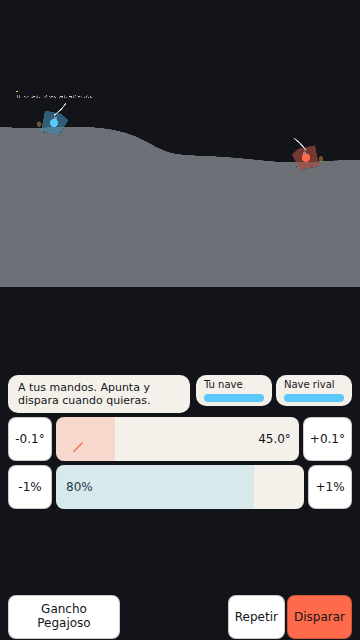
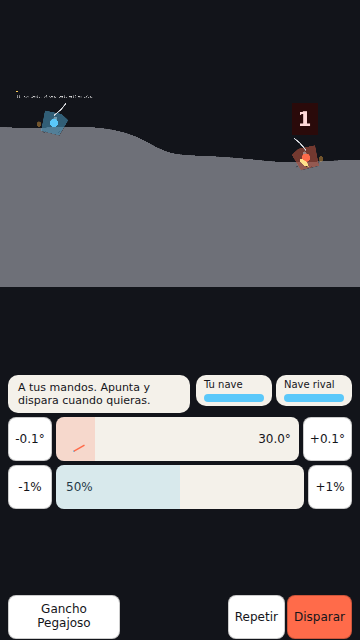
fix(arma-mina-adherente): corrige el factor de escala invertido del contador y refuerza min-2
ContadorAdherencia.ts usaba 1/displayScale.x en vez de displayScale.x, así
que en vez de agrandar la fuente para compensar el FIT la encogía: a 360x640
el contador de la mina se dibujaba a ~0,75px CSS, invisible. El gatekeeper
midió el bug con su propia sonda y señaló también que min-2.e2e.ts solo
comprobaba el dato publicado en window.__debug, nunca el tamaño ni la
posición visible en pantalla, y que lo hacía sobre un tiro cuyo punto de
adherencia caía fuera del mundo.

min-2.e2e.ts ahora dispara a un ángulo/potencia que se pega dentro del
mundo visible y decodifica la captura real con el paquete "canvas" (ya
dependencia del repo) para medir en píxeles de pantalla el bloque de fondo
del contador -- comprobado en ambos sentidos: falla con el bug reintroducido
(0 píxeles encontrados) y pasa con el arreglo (32px de alto).

diff --git a/tests/e2e/min-2.e2e.ts b/tests/e2e/min-2.e2e.ts
@@ -1,6 +1,66 @@
 import { test, expect } from "@playwright/test";
+import { createCanvas, loadImage } from "canvas";
 import { ANGULO_MAXIMO_GRADOS, ANGULO_MINIMO_GRADOS, POTENCIA_MAXIMA, POTENCIA_MINIMA } from "@/juego/control/apuntado";
+import { MUNDO_ALTO, MUNDO_ANCHO } from "@/juego/constantes";
 import { arrastrarBarraHasta } from "./utilesControl";
+
+// min-2 (hallazgo del gatekeeper): el guardia anterior solo comprobaba el
+// DATO publicado en window.__debug, nunca lo que de verdad se pintaba en el
+// lienzo -- así coló un contador comprimido a ~0,75px CSS (el bug de
+// ContadorAdherencia.ts que invertía displayScale.x). Esta comprobación
+// decodifica el PNG real de la captura con el paquete "canvas" (ya
+// dependencia del repo, nunca del lado del navegador: no toca el guardia
+// terreno-6/comprobar-sin-lectura-canvas.mjs, que solo vigila src/juego y
+// src/sim) y mide en PÍXELES DE PANTALLA el bloque de color de fondo del
+// contador (#2a0a0a) alrededor de su punto de ancla, para que un contador
+// invisible o microscópico vuelva a hacer fallar el test aunque el dato
+// publicado sea correcto.
+const FONDO_CONTADOR_RGB = { r: 0x2a, g: 0x0a, b: 0x0a };
+const TOLERANCIA_COLOR = 40;
+const ALTO_MINIMO_LEGIBLE_CSS_PX = 12;
+
+async function medirBloqueDeFondo(
+  buffer: Buffer,
+  ventana: { left: number; top: number; right: number; bottom: number },
+): Promise<{ ancho: number; alto: number; muestras: number }> {
+  const imagen = await loadImage(buffer);
+  const lienzo = createCanvas(imagen.width, imagen.height);
+  const contexto = lienzo.getContext("2d");
+  contexto.drawImage(imagen, 0, 0);
+
+  const left = Math.max(0, Math.floor(ventana.left));
+  const top = Math.max(0, Math.floor(ventana.top));
+  const right = Math.min(imagen.width, Math.ceil(ventana.right));
+  const bottom = Math.min(imagen.height, Math.ceil(ventana.bottom));
+  const { data } = contexto.getImageData(left, top, right - left, bottom - top);
+
+  let minX = Infinity;
+  let minY = Infinity;
+  let maxX = -Infinity;
+  let maxY = -Infinity;
+  let muestras = 0;
+  const ancho = right - left;
+  for (let y = 0; y < bottom - top; y++) {
+    for (let x = 0; x < ancho; x++) {
+      const i = (y * ancho + x) * 4;
+      const r = data[i];
+      const g = data[i + 1];
+      const b = data[i + 2];
+      const distancia = Math.abs(r - FONDO_CONTADOR_RGB.r) + Math.abs(g - FONDO_CONTADOR_RGB.g) + Math.abs(b - FONDO_CONTADOR_RGB.b);
+      if (distancia <= TOLERANCIA_COLOR) {
+        muestras++;
+        minX = Math.min(minX, x);
+        maxX = Math.max(maxX, x);
+        minY = Math.min(minY, y);
+        maxY = Math.max(maxY, y);
+      }
+    }
+  }
+  if (muestras === 0) {
+    return { ancho: 0, alto: 0, muestras: 0 };
+  }
+  return { ancho: maxX - minX + 1, alto: maxY - minY + 1, muestras };
+}
 
 // min-2 (camino crítico): a diferencia de gra-2 (panel DOM position:fixed),
 // el contador de la mina es un GameObject DENTRO del lienzo de Phaser
@@ -48,8 +108,14 @@ test("min-2: el contador de la mina está anclado al punto de adherencia, es dis
   // que se fuerza una mecha corta y determinista tras la adherencia.
   await page.evaluate(() => window.__debug.forzarFusibleAdherenciaPasos!(100));
 
-  const anguloObjetivo = 45;
-  const potenciaObjetivo = 80;
+  // min-2 (hallazgo del gatekeeper): el ángulo/potencia anteriores (45/80)
+  // resolvían un punto de adherencia en (1928,96, -277,54), FUERA del mundo
+  // de 1920x1080 -- ahí no habría nada visible aunque el tamaño fuese
+  // correcto. Este disparo se pega cerca de la nave rival (1632, 414),
+  // dentro del mundo y por tanto del lienzo, comprobado con la sonda
+  // dedicada antes de fijar los valores.
+  const anguloObjetivo = 30;
+  const potenciaObjetivo = 50;
   const fraccionAngulo = (anguloObjetivo - ANGULO_MINIMO_GRADOS) / (ANGULO_MAXIMO_GRADOS - ANGULO_MINIMO_GRADOS);
   const fraccionPotencia = (potenciaObjetivo - POTENCIA_MINIMA) / (POTENCIA_MAXIMA - POTENCIA_MINIMA);
   await arrastrarBarraHasta(page, "barra-angulo", fraccionAngulo);
@@ -131,8 +197,29 @@ test("min-2: el contador de la mina está anclado al punto de adherencia, es dis
       expect(Math.abs(instante.contador.x - impactoResuelto.x)).toBeLessThanOrEqual(2);
       expect(Math.abs(instante.contador.y - impactoResuelto.y)).toBeLessThanOrEqual(2);
       if (!capturada) {
-        await page.screenshot({ path: "capturas/arma-mina-adherente-18-cuenta-atras.png" });
+        const buffer = await page.screenshot({ path: "capturas/arma-mina-adherente-18-cuenta-atras.png" });
         capturada = true;
+
+        // Ventana de búsqueda en px de PANTALLA alrededor del punto de
+        // ancla (world -> screen vía el rectángulo real del lienzo, no un
+        // valor de cámara supuesto): generosa hacia arriba porque el texto
+        // se dibuja DESPLAZAMIENTO_VERTICAL_CSS_PX por encima del ancla.
+        const escalaX = (rectLienzo.right - rectLienzo.left) / MUNDO_ANCHO;
+        const escalaY = (rectLienzo.bottom - rectLienzo.top) / MUNDO_ALTO;
+        const anclaScreenX = rectLienzo.left + instante.contador.x * escalaX;
+        const anclaScreenY = rectLienzo.top + instante.contador.y * escalaY;
+        const bloque = await medirBloqueDeFondo(buffer, {
+          left: anclaScreenX - 40,
+          right: anclaScreenX + 40,
+          top: anclaScreenY - 70,
+          bottom: anclaScreenY + 10,
+        });
+
+        // min-2 (hallazgo del gatekeeper): esto es justo lo que el guardia
+        // anterior no comprobaba -- antes del arreglo de ContadorAdherencia
+        // (compensacionEscala invertida) este bloque medía ~1px de alto.
+        expect(bloque.muestras).toBeGreaterThan(0);
+        expect(bloque.alto).toBeGreaterThanOrEqual(ALTO_MINIMO_LEGIBLE_CSS_PX);
       }
     }
     await page.waitForTimeout(15);

diff --git a/src/juego/vuelo/ContadorAdherencia.ts b/src/juego/vuelo/ContadorAdherencia.ts
@@ -15,9 +15,11 @@ import Phaser from "phaser";
 // heredaría ese mismo encogido (el lienzo entero se escala como una sola
 // imagen) y terminaría en unos pocos píxeles CSS, ilegible -- justo lo que
 // le pasaría a CuentaAtrasHUD si viviera dentro del lienzo en vez de como
-// overlay DOM. `scale.displayScale` (tamaño de pantalla real / tamaño base
-// del juego) es el factor exacto para deshacer ese encogido: se agranda la
-// fuente y el acolchado en mundo por su inverso para que el tamaño VISTO en
+// overlay DOM. `scale.displayScale` YA es baseSize/displaySize (a 360 de
+// ancho vale 1920/360 = 5,33): es directamente el factor de compensación,
+// no su inverso -- multiplicar la fuente y el acolchado en mundo por ese
+// valor (min-2, hallazgo del gatekeeper: la versión anterior usaba 1/displayScale
+// y encogía el texto en vez de agrandarlo) hace que el tamaño VISTO en
 // pantalla sea el mismo con independencia del viewport, sin perder la
 // ancla al punto de mundo donde se pegó la mina.
 const TAMANO_FUENTE_CSS_PX = 20;
@@ -30,7 +32,7 @@ export class ContadorAdherencia {
   private readonly compensacionEscala: number;
 
   constructor(escena: Phaser.Scene) {
-    this.compensacionEscala = 1 / escena.scale.displayScale.x;
+    this.compensacionEscala = escena.scale.displayScale.x;
     this.texto = escena.add
       .text(0, 0, "", {
         fontFamily: "system-ui, sans-serif",
